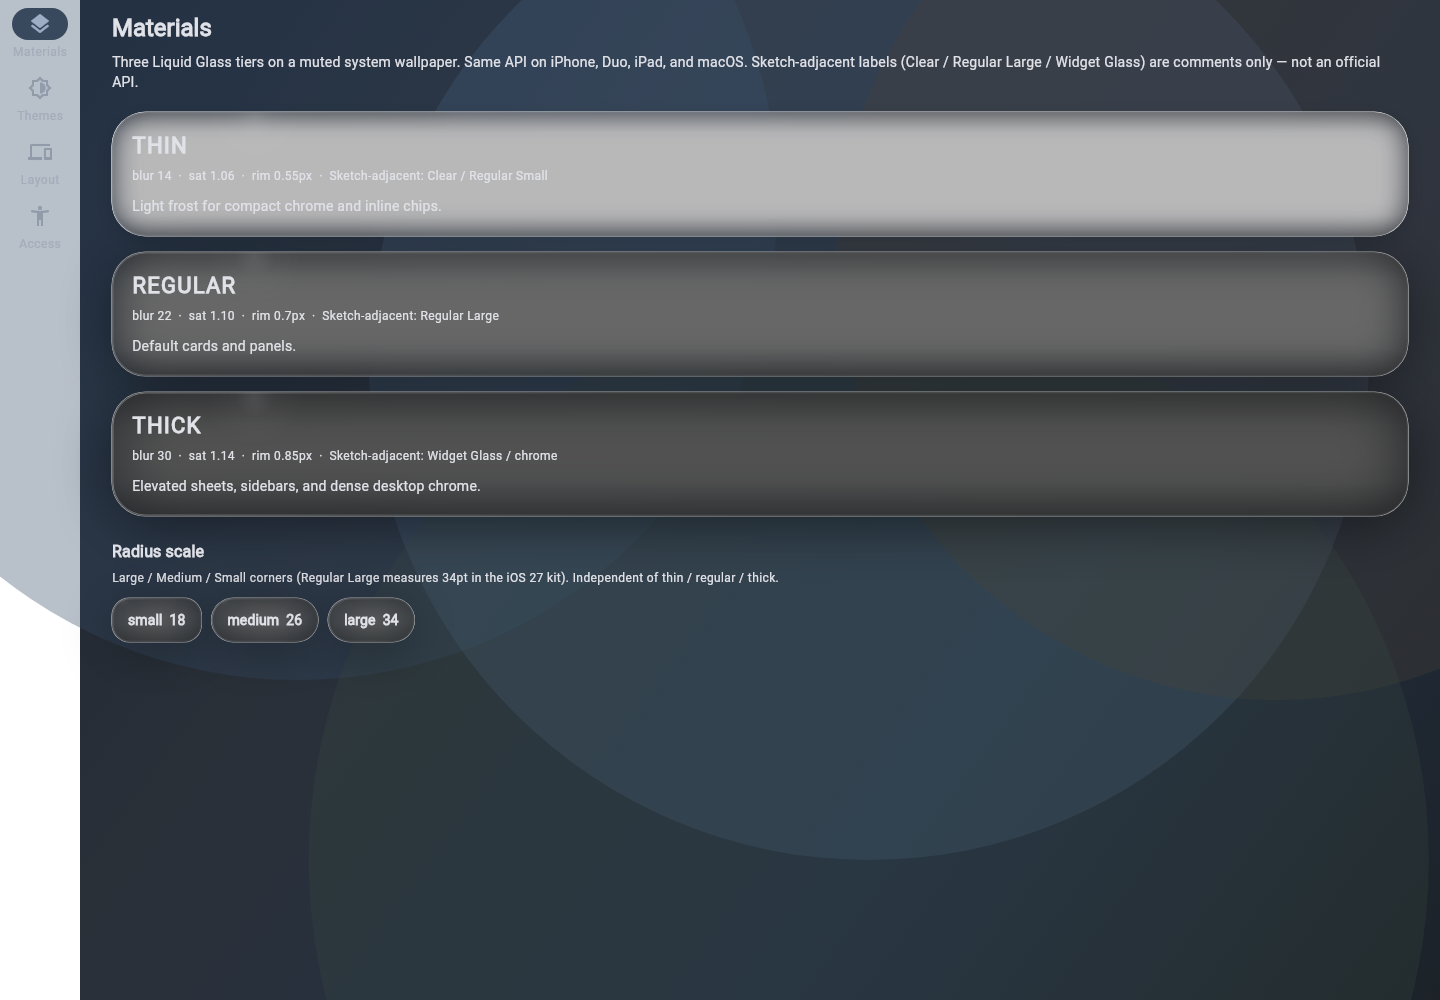
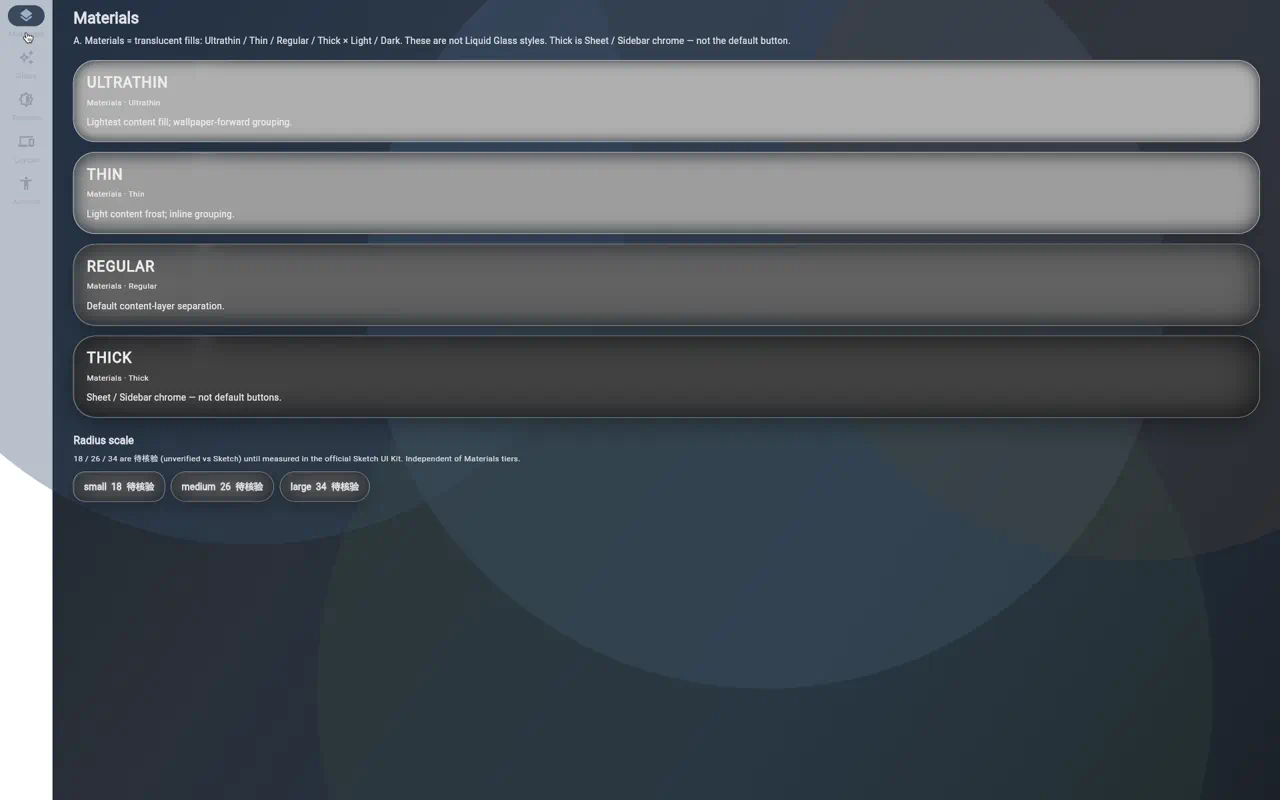
Fix GlassButton shrink-wrap and refresh gallery screenshots.
Keep Disabled as a compact Regular Small pill, strengthen dark
Ultrathin contrast, and capture Materials + GlassButton pages in
light and dark.

Changed region(s): [[0.0, 0.0, 1.0, 1.0]]

diff --git a/example/lib/pages/materials_page.dart b/example/lib/pages/materials_page.dart
@@ -64,6 +64,9 @@ class _MaterialCard extends StatelessWidget {
 
   @override
   Widget build(BuildContext context) {
+    final tokens = LiquidGlassTheme.materialOf(context, tier);
+    final fill = Color.alphaBlend(tokens.tintColor, tokens.opaqueFallbackColor);
+    final color = LiquidGlassLabels.contrastingOn(fill);
     return GlassSurface(
       key: Key('material-${tier.name}'),
       material: tier,
@@ -77,15 +80,23 @@ class _MaterialCard extends StatelessWidget {
             style: Theme.of(context).textTheme.titleLarge?.copyWith(
               fontWeight: FontWeight.w700,
               letterSpacing: 1.2,
+              color: color,
             ),
           ),
           const SizedBox(height: 8),
           Text(
             'Materials · ${tier.kitName}',
-            style: Theme.of(context).textTheme.bodySmall,
+            style: Theme.of(
+              context,
+            ).textTheme.bodySmall?.copyWith(color: color),
           ),
           const SizedBox(height: 12),
-          Text(tier.usage, style: Theme.of(context).textTheme.bodyMedium),
+          Text(
+            tier.usage,
+            style: Theme.of(
+              context,
+            ).textTheme.bodyMedium?.copyWith(color: color),
+          ),
         ],
       ),
     );

diff --git a/test/lingyun_ui_flutter_test.dart b/test/lingyun_ui_flutter_test.dart
@@ -73,6 +73,14 @@ void main() {
     test('Liquid Glass labels are kit Primary colors', () {
       expect(LiquidGlassLabels.lightPrimary, const Color(0xFF1A1A1A));
       expect(LiquidGlassLabels.darkPrimary, const Color(0xFFEDEDED));
+      expect(
+        LiquidGlassLabels.contrastingOn(const Color(0xFFFFFFFF)),
+        LiquidGlassLabels.lightPrimary,
+      );
+      expect(
+        LiquidGlassLabels.contrastingOn(const Color(0xFF111111)),
+        LiquidGlassLabels.darkPrimary,
+      );
     });
 
     test('radius scale is Large / Medium / Small, not a flat 24', () {

diff --git a/lib/src/tokens/liquid_glass_tokens.dart b/lib/src/tokens/liquid_glass_tokens.dart
@@ -542,8 +542,8 @@ class LiquidGlassTokens {
   static const LiquidGlassTokens darkUltrathin = LiquidGlassTokens(
     blurSigma: 9,
     saturation: 1.03,
-    tintColor: Color(0x05000000),
-    overlayColor: Color(0x05000000),
+    tintColor: Color(0x2E000000),
+    overlayColor: Color(0x14000000),
     overlayBlend: BlendMode.srcOver,
     edgeHighlightColor: Color(0x26FFFFFF),
     refractionColor: Color(0x2EFFFFFF),

diff --git a/lib/src/tokens/liquid_glass_labels.dart b/lib/src/tokens/liquid_glass_labels.dart
@@ -25,4 +25,9 @@ class LiquidGlassLabels {
   static Color primaryOf(BuildContext context) {
     return primaryFor(Theme.brightnessOf(context));
   }
+
+  /// Pick Primary so text stays readable on [background].
+  static Color contrastingOn(Color background) {
+    return background.computeLuminance() > 0.55 ? lightPrimary : darkPrimary;
+  }
 }

diff --git a/lib/src/widgets/glass_button.dart b/lib/src/widgets/glass_button.dart
@@ -156,7 +156,7 @@ class _GlassButtonLabel extends StatelessWidget {
     final color = LiquidGlassLabels.primaryOf(context);
     final text = Text(label, textAlign: TextAlign.center);
     if (icon == null) {
-      return Center(child: text);
+      return text;
     }
     return Row(
       mainAxisSize: MainAxisSize.min,
